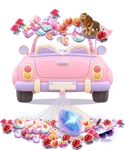
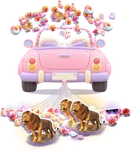
Gift car: up to 45 roof balloons (cheap gifts, every 2nd), layered rows, gentle lagged sway with the car; previews regenerated

diff --git a/packages/overlay/public/dragcar.html b/packages/overlay/public/dragcar.html
@@ -47,7 +47,7 @@
       sports: { src: 'themes/car-sports.webp', x: -333.4, y: -360, w: 666.8, h: 360, hook: { x: -0.2, y: -38.9 } },
       offroad: { src: 'themes/car-offroad.webp', x: -242.6, y: -360, w: 485.2, h: 360, hook: { x: -0.4, y: -60.1 } },
       jdm: { src: 'themes/car-jdm.webp', x: -261.2, y: -360, w: 522.5, h: 360, hook: { x: -0.4, y: -54.7 } },
-      bike: { src: 'themes/car-bike.webp', x: -145.2, y: -360, w: 290.5, h: 360, hook: { x: -0.2, y: -113.1 }, open: true, balAt: 0.2, balMax: 7, balTight: true },
+      bike: { src: 'themes/car-bike.webp', x: -145.2, y: -360, w: 290.5, h: 360, hook: { x: -0.2, y: -113.1 }, open: true, balAt: 0.2, balMax: 12, balTight: true },
       tourbus: { src: 'themes/car-tourbus.webp', x: -163.5, y: -360, w: 327.0, h: 360, hook: { x: -0.3, y: -74.6 }, music: true },
       limo: { src: 'themes/car-limo.webp', x: -285.3, y: -360, w: 570.6, h: 360, hook: { x: -0.4, y: -58.5 }, music: true },
       vintage: { src: 'themes/car-vintage.webp', x: -290.5, y: -360, w: 580.9, h: 360, hook: { x: -0.2, y: -89.1 }, open: true, music: true },
@@ -59,7 +59,7 @@
     };
     const CAR = CARS[P('car', 'van')] || CARS.van;
     // ลูกโป่ง: ของขวัญทุก ๆ BAL_EVERY ชิ้น ไปผูกเป็นลูกโป่งลอยเหนือหลังคา (รถเปิดประทุน = ผูกที่เบาะหลัง) · ?balloons=0 ปิด
-    const BAL_ON = P('balloons', '1') !== '0', BAL_EVERY = 3, BAL_MAX = 20;
+    const BAL_ON = P('balloons', '1') !== '0', BAL_EVERY = 2, BAL_MAX = 45;
     const BAL_COLORS = ['#ffb5d4', '#c9b8ff', '#a8e6cf', '#ffd3a5', '#a9d8ff', '#fff1a8', '#ff9ec4'];
     const carImg = Juice.skin(CAR.src, num('hue', 0), num('sat', 1), num('bright', 1));
     const CAR_Y = -250;
@@ -111,13 +111,13 @@
     function balloonPos(b, t) {
       const a = balAnchor(), i = b.bi, ring = Math.floor(Math.sqrt(i)), k = i - ring * ring, n = 2 * ring + 1;
       const ang = -Math.PI / 2 + (n > 1 ? (k / (n - 1) - 0.5) : 0) * (CAR.balTight ? 0.9 : Math.min(2.2, 0.7 + ring * 0.35));
-      const len = CAR.balTight ? 95 + ring * 22 + (i % 2) * 10 : 85 + ring * 32 + (i % 3) * 8;
-      const gust = Math.sin(t * 0.45) * 0.5 + Math.sin(t * 0.83 + 1.3) * 0.3; // ลมพัดเป็นระลอก (ทุกลูกไปทางเดียวกัน)
+      const len = CAR.balTight ? 95 + ring * 18 + (i % 2) * 10 : 85 + ring * 24 + (i % 3) * 8;
+      const gust = Math.sin(t * 0.45) * 0.35 + Math.sin(t * 0.83 + 1.3) * 0.2; // ลมพัดเป็นระลอก (ทุกลูกไปทางเดียวกัน)
       const sw = gust * 0.16 + Math.sin(t * 1.1 + i * 1.7) * 0.07;
       // จอเตี้ย: บีบกลุ่มลูกโป่งให้อยู่ในจอ (ไม่ล้นขอบบน)
       const room = origin().y / S() + a.y - 50, fit = Math.min(1, room / 230);
       // ที่เหนือรถน้อย → กางกลุ่มลูกโป่งออกด้านข้างแทน (ไม่ทับกันเป็นก้อน)
-      return { x: a.x + Math.cos(ang + sw) * len * (0.95 + (1 - fit) * 1.1), y: a.y + Math.min(-55, Math.sin(ang + sw) * len * fit) + Math.sin(t * 2 + i) * 4, ax: a.x, ay: a.y };
+      return { x: a.x + Math.cos(ang + sw) * len * (0.95 + (1 - fit) * 1.1), y: a.y + Math.min(-50 - (i % 3) * 30 * Math.max(0.5, fit * 2), Math.sin(ang + sw) * len * fit) + Math.sin(t * 2 + i) * 4, ax: a.x, ay: a.y };
     }
     function freeSlot() {
       const used = new Set(gifts.filter((g) => !g.dying && !g.balloon).map((g) => g.slot));
@@ -131,7 +131,7 @@
       if (slot < 0) slot = 0;
       const r = Math.min(78, 18 * GIFT_SCALE * sizeFor(g.d, 4.2)); // ของแพงใหญ่ชัด ๆ (Lion/Universe ≈ 4 เท่า)
       const nBal = gifts.filter((b) => b.balloon && !b.dying).length;
-      const balloon = BAL_ON && nBal < (CAR.balMax || BAL_MAX) && (++addCount % BAL_EVERY === 0);
+      const balloon = BAL_ON && (g.d || 0) < 100 && nBal < (CAR.balMax || BAL_MAX) && /* ของแพงอยู่บนพื้น เด่นกว่า */ (++addCount % BAL_EVERY === 0);
       gifts.push({ g, img: giftImg(g.u), slot, r, born, life: 1, sx: (Math.random() - .5) * 160, sy: CAR_Y - 420 - Math.random() * 120, balloon, bi: balloon ? nextBalIdx() : -1 });
       if (born > 0) punch.kick(g.d >= 1000 ? -6 : -2.5);
     }
@@ -203,16 +203,19 @@
         if (!b.balloon) continue;
         if (b.dying) b.life -= 0.03;
         const p = balloonPos(b, t), ay = p.ay - bob;
-        let x = p.x, y = p.y - bob;
+        // ลูกโป่งตามรถแบบหน่วง ๆ (รถเด้ง/ได้ของขวัญใหม่ → ลูกโป่งกระตุกตามช้า ๆ แล้วแกว่งกลับ)
+        b.ly = (b.ly || 0) + ((-bob * 1.6 + punch.x * 3) - (b.ly || 0)) * (0.05 + (b.bi % 5) * 0.008);
+        b.lx = (b.lx || 0) + ((punch.x * (b.bi % 2 ? 2 : -2)) - (b.lx || 0)) * 0.04;
+        let x = p.x + b.lx, y = p.y + b.ly;
         if (b.born > 0) { const k = Math.min(1, (now - b.born) / 900), e = Juice.easeOutBack ? Juice.easeOutBack(k) : k; x = b.sx + (x - b.sx) * e; y = b.sy + (y - b.sy) * Math.min(1, k * 1.1); if (k >= 1 && !b.landed) { b.landed = true; fx.sparkle(x, y, 6, '#fff6e8'); } }
-        const R = Math.max(26, Math.min(58, b.r * 1.35)), col = BAL_COLORS[b.bi % BAL_COLORS.length];
+        const R = Math.max(22, Math.min(34, b.r * 1.2)), col = BAL_COLORS[b.bi % BAL_COLORS.length];
         ctx.save(); ctx.globalAlpha = Math.max(0, b.life);
-        const ex = x, ey = y + R * 0.8, dx = ex - p.ax, dy = ey - ay, wind = Math.sin(t * 0.45) * 26 + Math.sin(t * 1.7 + b.bi) * 9;
+        const ex = x, ey = y + R * 0.8, dx = ex - p.ax, dy = ey - ay, wind = Math.sin(t * 0.45) * 14 + Math.sin(t * 1.7 + b.bi) * 5 + b.lx * 0.8; // แกว่งเบา ๆ
         ctx.beginPath(); ctx.moveTo(p.ax, ay); // เชือกหย่อน ๆ เป็นรูปตัว S เอนตามลม
         ctx.bezierCurveTo(p.ax + dx * 0.15 - wind, ay + dy * 0.35 + 10, p.ax + dx * 0.75 + wind * 0.8, ay + dy * 0.7 + 6, ex, ey);
         ctx.lineWidth = 1.6; ctx.strokeStyle = 'rgba(255,255,255,.9)'; ctx.stroke();
         // ของขวัญลอยเองเหมือนลูกโป่ง (ไม่มีลูกโป่งครอบ) ผูกเชือกที่ใต้ของขวัญ
-        ctx.translate(x, y); ctx.rotate(Math.sin(t * 1.5 + b.bi) * .1); drawGift(b.img, b.g.e, R * 1.9); ctx.restore();
+        ctx.translate(x, y); ctx.rotate(Math.sin(t * 1.5 + b.bi) * .1); drawGift(b.img, b.g.e, R * 1.6); ctx.restore();
       }
       // ปมผูกบนหลังคา
       if (BAL_ON && gifts.some((b) => b.balloon)) { const a = balAnchor(); ctx.beginPath(); ctx.arc(a.x, a.y - bob, 4, 0, Math.PI * 2); ctx.fillStyle = '#fff'; ctx.fill(); ctx.lineWidth = 1.5; ctx.strokeStyle = 'rgba(120,90,160,.6)'; ctx.stroke(); }
